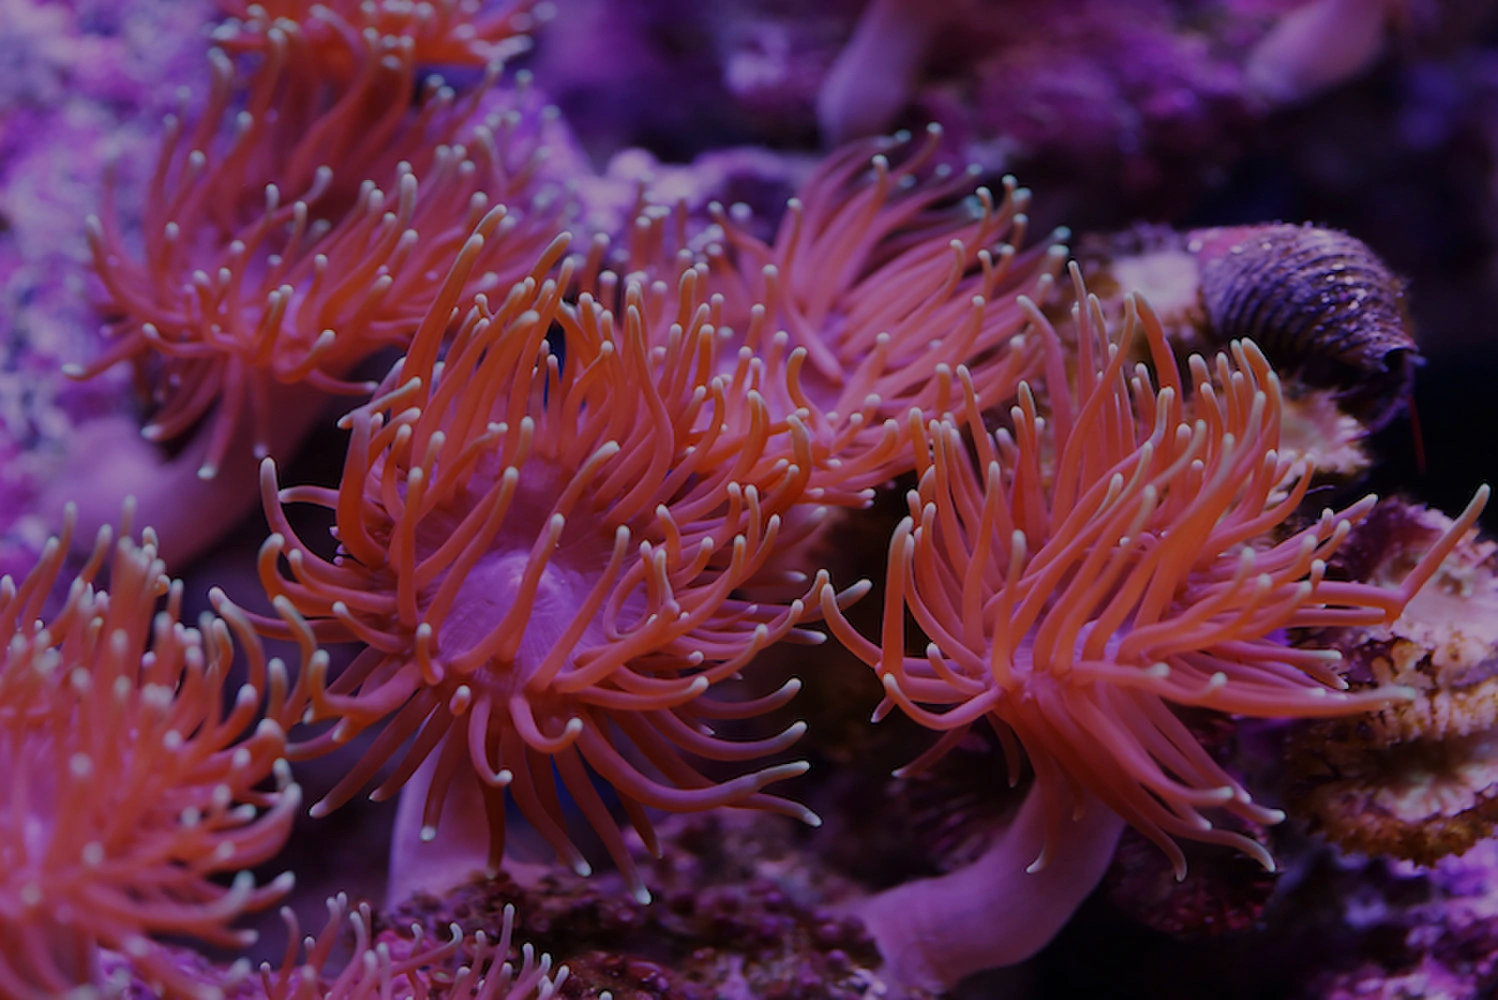
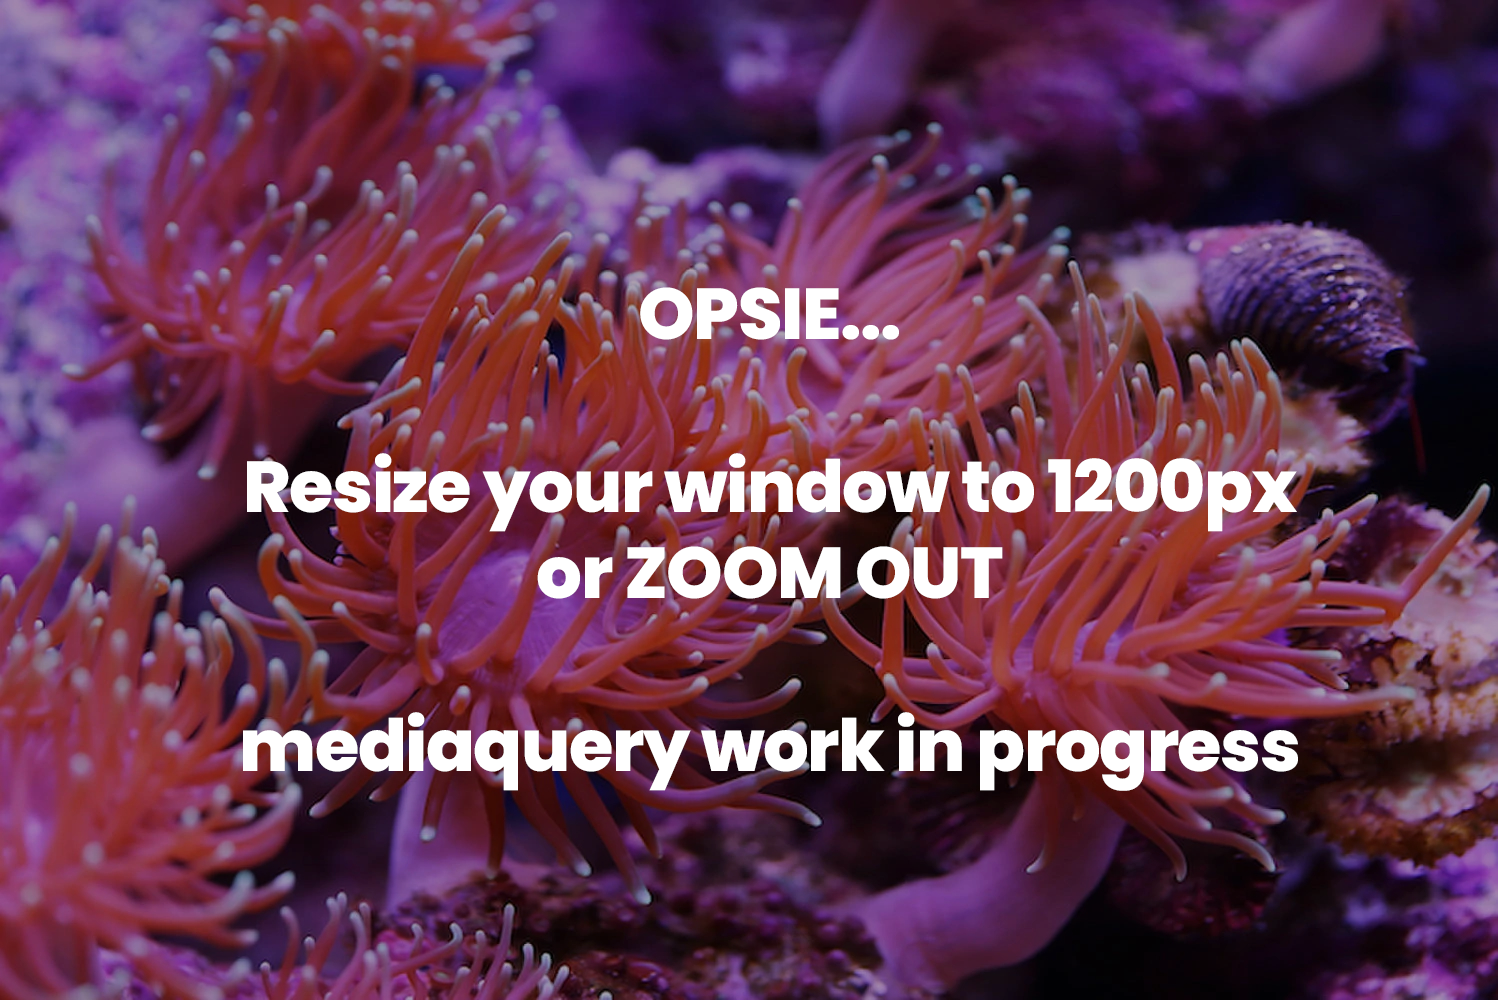
asd

Changed region(s): [[0.1535, 0.434, 0.8598, 0.62], [0.1535, 0.713, 0.8905, 0.806], [0.4299, 0.279, 0.6142, 0.341]]

diff --git a/style.css b/style.css
@@ -1,8 +1,8 @@
 html {
   scroll-behavior: smooth;
+  max-width: 1200px;
  }
-
-* {
+ * {
   padding: 0;
   margin: 0;
   font-family: 'poppins';
@@ -119,21 +119,24 @@ body {
 .primos{
   height: 100%
 }
-.testa{
-  padding:40px;
-  padding-top: 120px;
-  text-align: center;
-  align-items: center;
-  justify-content: center;
-  /*Per far restare il div centrato usa margin 0 auto*/
-  margin:0 auto;
-  display: block;
-  float: none;
-  z-index: 1;
-  color:white;
-  max-height: 600px;
-  max-width: 900px;
-}
+
+.testa {
+    /* padding: 40px; */
+    /* padding-top: 120px; */
+    text-align: center;
+    align-items: center;
+    justify-content: center;
+    margin: 0 auto;
+    display: block;
+    /* float: unset; */
+    z-index: 1;
+    color: #ffffff;
+    max-height: 600px;
+    max-width: 900px;
+    position: relative;
+    top: -436px;
+  }
+
 
 .uno{
   font-weight:500
@@ -154,26 +157,29 @@ body {
 
 
 /*sfondo home*/
-.sfondo_home{
-  position: absolute;
+.sfondo_home {
+  /* position: absolute; */
   z-index: -1;
   height: 100%;
   width: 100%;
   min-height: 500px;
   object-fit: cover;
+  overflow: auto;
 }
 /*fine sfondo home*/
 
 
 
 /*DATAS ROTATION*/
-.datas{
+.datas {
   overflow: hidden;
   width: 100%;
   height: 100%;
- margin: 0 auto;
- position: relative;
- }
+  margin: 0 auto;
+  position: relative;
+  top: -410px;
+  z-index: 1;
+}
 
 .unos{
   background-color:purple;
@@ -225,19 +231,12 @@ body {
 
 
 /*GRID FLEXBOX*/
+
 .wrapper{
-  padding:40px;
-  padding-top: 120px;
-  text-align: center;
-  align-items: center;
-  justify-content: center;
-  /*Per far restare il div centrato usa margin 0 auto*/
-  margin:0 auto;
-  display: block;
-  float: none;
-  z-index: 1;
-  align-items: center;
+  position: relative;
+  top: -200px;
 }
+
 .grid{
   display: flex;
   width:100%;
@@ -440,6 +439,7 @@ button:active {
     overflow: hidden;
     object-position: 0 44%;
     margin-bottom: 130px;
+    margin-top: -50px;
 }
 
 /*DIV MAPPA*/
@@ -724,3 +724,20 @@ button:active {
 }
 
 /*FINE FOOTER*/
+
+
+.resize{
+  position: fixed;
+  z-index: 9;
+  object-fit: cover;
+  width: 100%;
+  height: 100%;
+  visibility: hidden
+}
+
+@media (min-width: 1300px) {
+  .resize{
+    visibility: ;
+  }
+  
+}

diff --git a/index.html b/index.html
@@ -6,11 +6,16 @@
   <meta http-equiv="X-UA-Compatible" content="ie=edge">
   <link rel="stylesheet" href="style.css">
   <link rel="stylesheet" href="https://cdnjs.cloudflare.com/ajax/libs/font-awesome/6.1.1/css/all.min.css"/>
+  <link rel="preconnect" href="https://fonts.googleapis.com">
+  <link rel="preconnect" href="https://fonts.gstatic.com" crossorigin>
+  <link href="https://fonts.googleapis.com/css2?family=Poppins:wght@300;500;700&display=swap" rel="stylesheet">
   <link rel="stylesheet" href="https://unpkg.com/aos@next/dist/aos.css" />
   <script src="script.js" type="text/javascript"></script>
   <title>Document</title>
 </head>
 <body>
+
+<img class="resize"  src="immagini/sfondo_home.png" alt="">
 
 <!--INIZIO CLASSE NAV-->
 <div class="nav">
@@ -39,9 +44,10 @@
 
 
 <!--INIZIO CLASSE FRONT+GIF-->
-<img  class="sfondo_home" src="immagini/coral_video.gif" alt="">
-    <div class="testa">
 
+<div class="testatesta">
+ <img  class="sfondo_home" src="immagini/coral_video.gif" alt="">
+    <div class="testa">
       <h6 class="uno">WE ARE CORAL REEF</h6>
       <h1 class="due">Let's save the world.
          Together.</h1>
@@ -50,6 +56,7 @@
       <a href="#write"><img src="immagini/scrolldown.gif" alt="" width="80px"></a>
       <h6>Scroll Down</h6>
     </div>
+</div>
 <!--FINE CLASSE FRONT+GIF-->
 
 
@@ -189,7 +196,7 @@
 <!--FINE CTA-->
 
 <div class="divmappa">
-  <div style="padding-top:200px; font-size: 20px;"> Dai un'occhiata alla mappa di sto cazzo <br> <br>Ti divertirai, coglione!</div>
+  <div style="padding-top:200px; font-size: 20px;"> Dai un'occhiata alla mappa di sto c*éç°o <br> <br>ciao bello!</div>
 </div>
 
 
@@ -224,7 +231,7 @@
           <div class="footer-logo">
             <a class="footer-logo-link" href="#">
               <span class="hidden-link-text"></span>
-              <h1> LOGO </h1>
+              <h1> Coralline </h1>
             </a>
           </div>
         </div>
